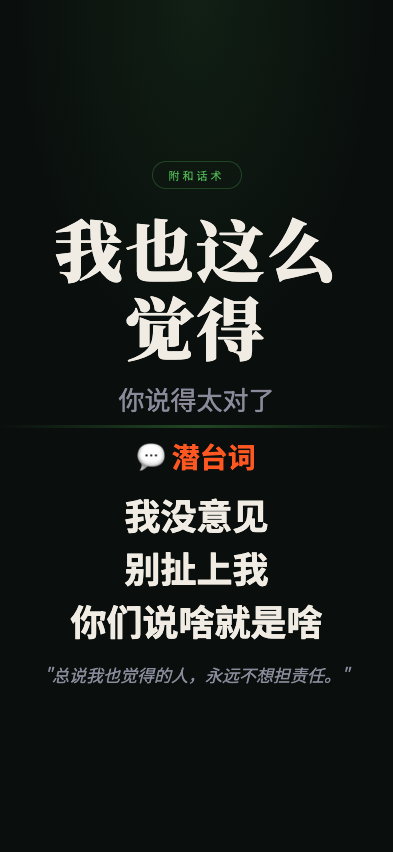
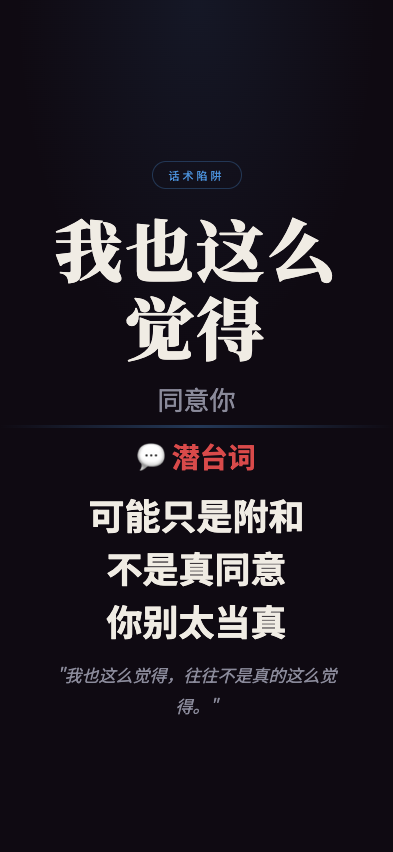
feat: 职场生存法则 screenshot - woyezhemejuede

Changed region(s): [[0.1221, 0.5798, 0.855, 0.8545], [0.2137, 0.4577, 0.7634, 0.5493], [0.4275, 0.1831, 0.5802, 0.2136]]

diff --git a/wuliao-tools/tools/biz-speak/scenes/woyezhemejuede.html b/wuliao-tools/tools/biz-speak/scenes/woyezhemejuede.html
@@ -7,11 +7,11 @@
 <link href="https://fonts.googleapis.com/css2?family=Noto+Serif+SC:wght@400;700;900&family=Noto+Sans+SC:wght@300;400;700&display=swap" rel="stylesheet">
 <style>
   :root {
-    --bg: #0a0f0d;
+    --bg: #0f0a12;
     --text: #f0ece4;
     --text-dim: #8a8a9a;
-    --gold: #4caf50;
-    --red: #ff5722;
+    --gold: #4a90d9;
+    --red: #d94a4a;
   }
   * { margin:0; padding:0; box-sizing:border-box; }
   html, body { width:100%; height:100%; overflow:hidden; }
@@ -24,11 +24,11 @@
   }
   body::before {
     content:''; position:absolute; top:0; left:0; right:0; height:45%;
-    background:radial-gradient(ellipse at 50% 0%, rgba(76,175,80,0.1) 0%, transparent 65%);
+    background:radial-gradient(ellipse at 50% 0%, rgba(74,144,217,0.1) 0%, transparent 65%);
     pointer-events:none; z-index:0;
   }
   .top { flex:1; display:flex; flex-direction:column; align-items:center; justify-content:flex-end; padding:4px 28px 8px; position:relative; z-index:1; }
-  .tag { font-size:11px; letter-spacing:3px; color:var(--gold); border:1px solid rgba(76,175,80,0.3); padding:5px 16px; border-radius:50px; margin-bottom:20px; }
+  .tag { font-size:11px; letter-spacing:3px; color:var(--gold); border:1px solid rgba(74,144,217,0.3); padding:5px 16px; border-radius:50px; margin-bottom:20px; }
   .main-title { font-family:'Noto Serif SC'; font-size:68px; font-weight:900; text-align:center; line-height:1.15; letter-spacing:3px; min-width:0; overflow-wrap:break-word; max-width:92%; }
   .sub-title { font-size:26px; color:var(--text-dim); text-align:center; margin-top:14px; }
   .divider { width:100%; height:3px; background:linear-gradient(90deg,transparent,var(--gold),transparent); opacity:0.35; flex-shrink:0; position:relative; z-index:1; }
@@ -41,19 +41,19 @@
 </head>
 <body>
   <div class="top">
-    <div class="tag">附和话术</div>
+    <div class="tag">话术陷阱</div>
     <div class="main-title">我也这么觉得</div>
-    <div class="sub-title">你说得太对了</div>
+    <div class="sub-title">同意你</div>
   </div>
   <div class="divider"></div>
   <div class="bottom">
     <div class="truth-label">💬 潜台词</div>
     <div class="truth-lines">
-      <div class="truth-line">我没意见</div>
-      <div class="truth-line">别扯上我</div>
-      <div class="truth-line">你们说啥就是啥</div>
+      <div class="truth-line">可能只是附和</div>
+      <div class="truth-line">不是真同意</div>
+      <div class="truth-line">你别太当真</div>
     </div>
-    <div class="quote">"总说我也觉得的人，永远不想担责任。"</div>
+    <div class="quote">"我也这么觉得，往往不是真的这么觉得。"</div>
   </div>
 </body>
 </html>
